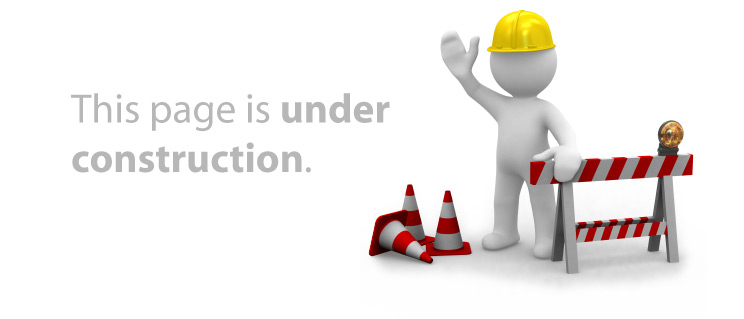
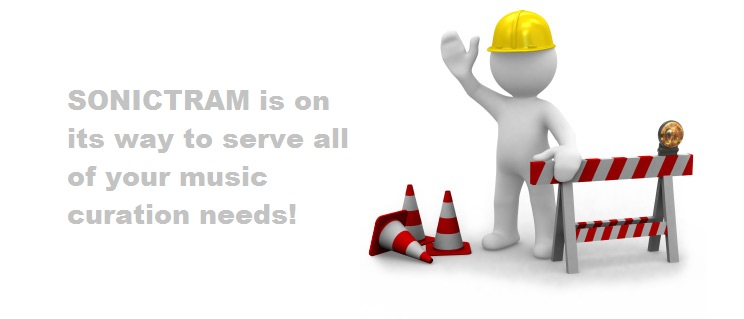
Update with new text

diff --git a/index.html b/index.html
@@ -2,7 +2,7 @@
 <html>
 <body>
 
-<Strong><marquee BGCOLOR=RED>SONICTRAM is on its way to serve all of your music curation needs!</marquee></strong>
+<Strong><marquee BGCOLOR=RED>We'll be online soon :)</marquee></strong>
 <img src="page_is_under_construction.jpg" alt="Page Under Construction" style="width:100%;height:100%;">
 
 </body>
